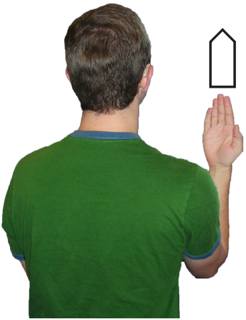
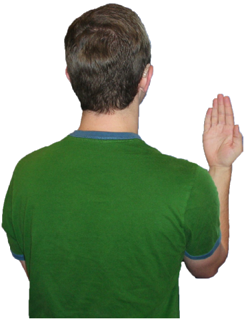
Expressive views: extract the signer, move symbols into subtitles
- Crop the 6 Front/Top View photos to the signer alone (keep the largest
  connected non-white blob), dropping the embedded SignWriting symbol.
- Add the corresponding live sgnw-symbol to each Palm/Side/Back subtitle
  (Front 񂇁 񂇑 񂇡, Top 񂇱 񂈁 񂈑).

Changed region(s): [[0.8252, 0.0938, 0.9675, 0.2812]]

diff --git a/src/chapters/Ch3Hands.tsx b/src/chapters/Ch3Hands.tsx
@@ -532,7 +532,9 @@ export function Ch3Hands() {
       <Grid columns="1fr 2fr" gap="1.5em" align="center">
         <Figure src={IMG.expFront1} style={{ margin: 0 }} />
         <div>
-          <h3 style={{ marginTop: 0 }}>Palm of Hand</h3>
+          <h3 style={{ marginTop: 0 }}>
+            Palm of Hand <sgnw-symbol symbol="񂇁"></sgnw-symbol>
+          </h3>
           <p>The palm of the hand is written with a white or hollow symbol.</p>
           <p>
             <strong>Front View — Parallel with Wall Plane:</strong> the hand is
@@ -543,7 +545,9 @@ export function Ch3Hands() {
 
         <Figure src={IMG.expFront2} style={{ margin: 0 }} />
         <div>
-          <h3 style={{ marginTop: 0 }}>Side of Hand</h3>
+          <h3 style={{ marginTop: 0 }}>
+            Side of Hand <sgnw-symbol symbol="񂇑"></sgnw-symbol>
+          </h3>
           <p>
             The side of the hand is written with a symbol that is half-white
             and half-dark. The half-white section shows the direction of the
@@ -558,7 +562,9 @@ export function Ch3Hands() {
 
         <Figure src={IMG.expFront3} style={{ margin: 0 }} />
         <div>
-          <h3 style={{ marginTop: 0 }}>Back of Hand</h3>
+          <h3 style={{ marginTop: 0 }}>
+            Back of Hand <sgnw-symbol symbol="񂇡"></sgnw-symbol>
+          </h3>
           <p>
             The back of the hand is written with a black or filled-in symbol.
           </p>
@@ -578,7 +584,9 @@ export function Ch3Hands() {
       <Grid columns="1fr 2fr" gap="1.5em" align="center">
         <Figure src={IMG.expTop1} style={{ margin: 0 }} />
         <div>
-          <h3 style={{ marginTop: 0 }}>Palm of Hand</h3>
+          <h3 style={{ marginTop: 0 }}>
+            Palm of Hand <sgnw-symbol symbol="񂇱"></sgnw-symbol>
+          </h3>
           <p>
             <strong>Top View — Parallel with Floor Plane:</strong> the hand is
             parallel to the floor. You are looking down at your palm from
@@ -591,7 +599,9 @@ export function Ch3Hands() {
 
         <Figure src={IMG.expTop2} style={{ margin: 0 }} />
         <div>
-          <h3 style={{ marginTop: 0 }}>Side of Hand</h3>
+          <h3 style={{ marginTop: 0 }}>
+            Side of Hand <sgnw-symbol symbol="񂈁"></sgnw-symbol>
+          </h3>
           <p>
             <strong>Top View — Parallel with Floor Plane:</strong> the hand is
             parallel to the floor. You are looking down at the side of your
@@ -602,7 +612,9 @@ export function Ch3Hands() {
 
         <Figure src={IMG.expTop3} style={{ margin: 0 }} />
         <div>
-          <h3 style={{ marginTop: 0 }}>Back of Hand</h3>
+          <h3 style={{ marginTop: 0 }}>
+            Back of Hand <sgnw-symbol symbol="񂈑"></sgnw-symbol>
+          </h3>
           <p>
             <strong>Top View — Parallel with Floor Plane:</strong> the hand is
             parallel to the floor. You are looking down at the back of your
